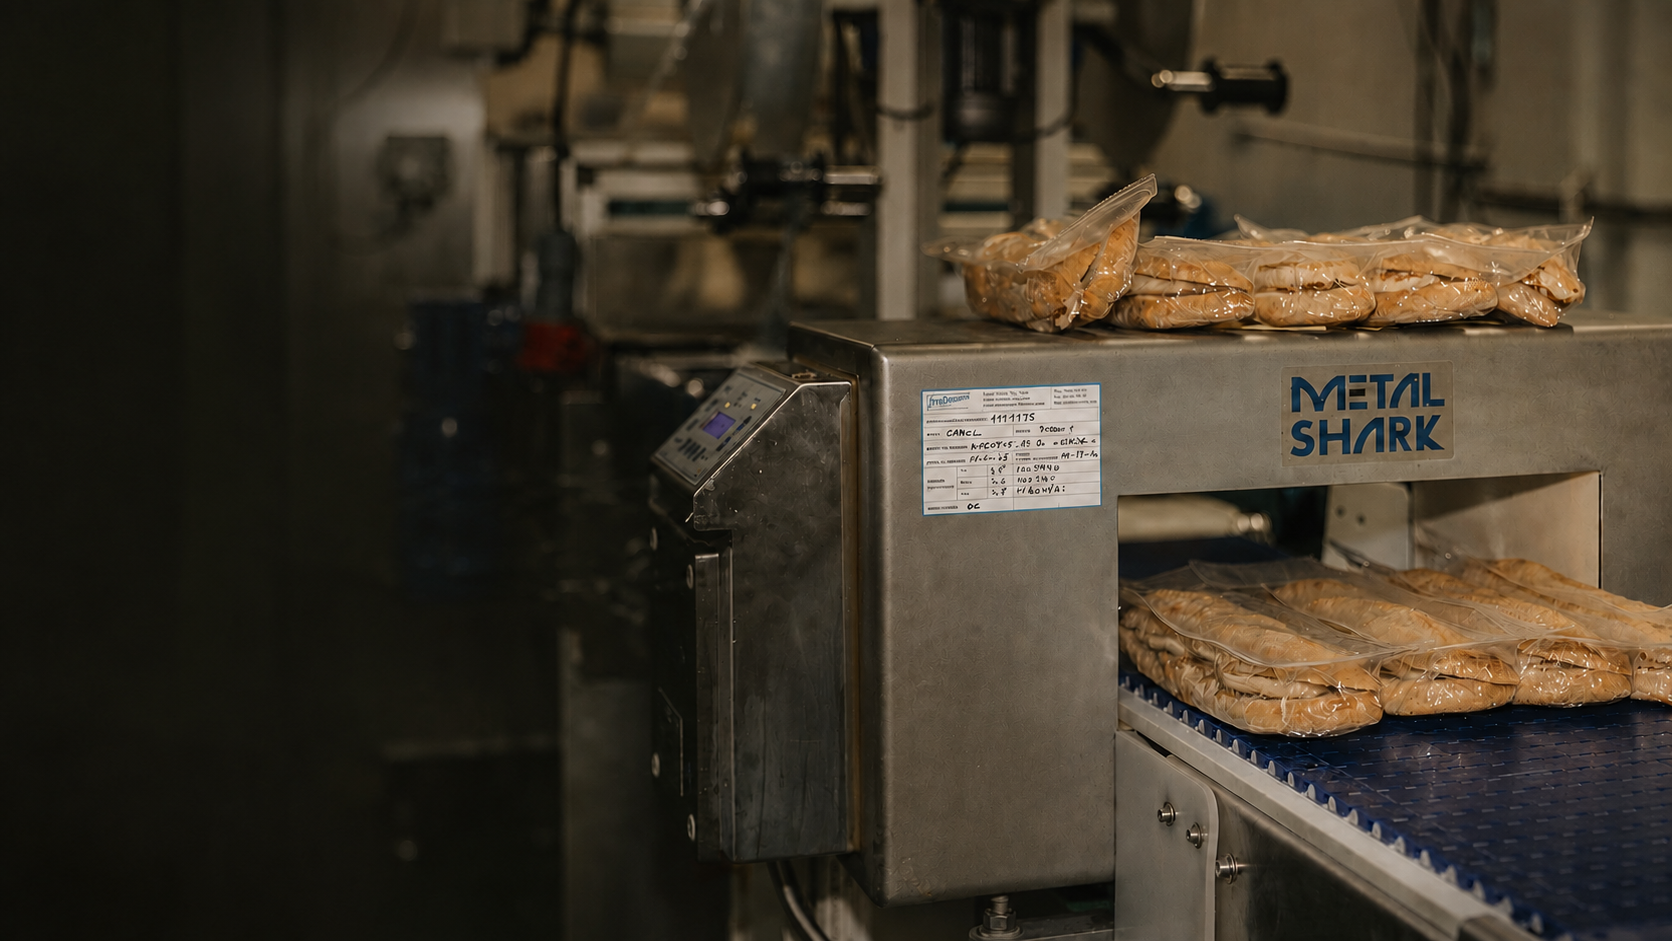
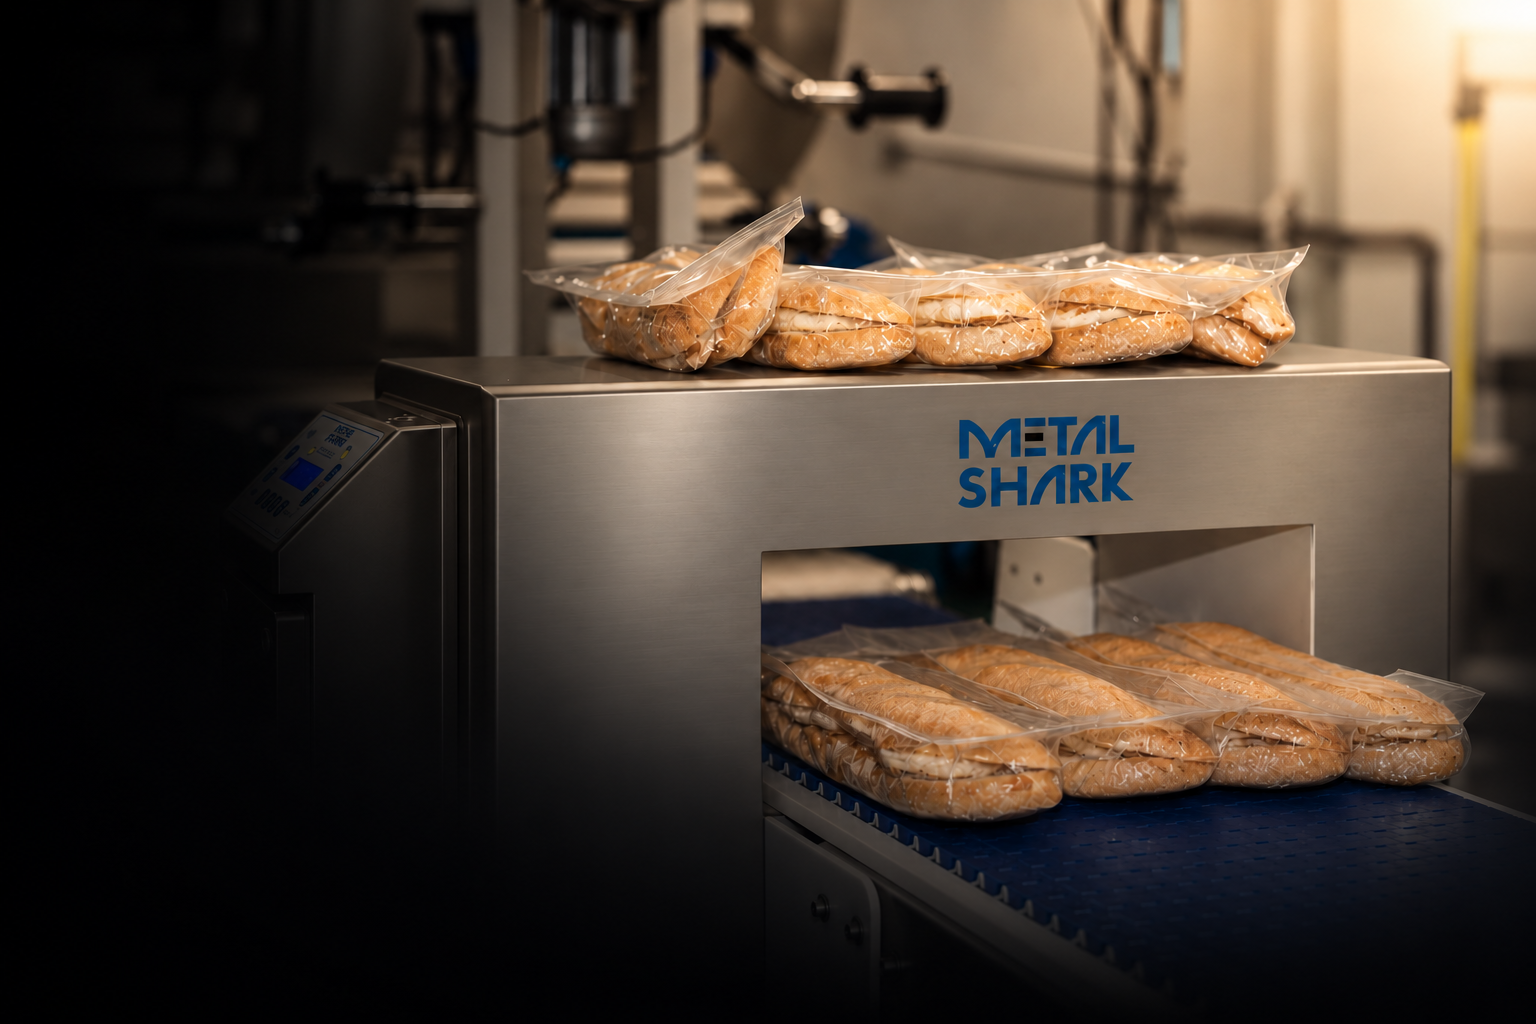
Cambio foto hero productos, alinea cards index, cambio color text shadow hero_text

diff --git a/index.html b/index.html
@@ -42,12 +42,11 @@
     <main>
         <section class="hero">
             <div class="hero_content container">
-                <h1 class="hero_title">Soluciones ready-to-eat para empresas que operan a gran escala</h1>
-                <p class="hero_text">Fabricamos alimentos preparados refrigerados, listos para vender, servir o calentar en distintos canales profesionales.</p>
-                <strong class="hero_tags">+35 años | Certificación IFS | 97% entregas en tiempo y forma | España y Europa</strong>
+                <h1 class="hero_title">Soluciones ready-to-eat para empresas</h1>
                 <div class="hero_actions">
                     <a class="main_btn hero_cta" href="./producto.html">VER PRODUCTOS</a>
                 </div>
+                <strong class="hero_tags">+35 años | Certificación IFS | 97% entregas en tiempo y forma | España y Europa</strong>
             </div>
         </section>
         <section class="two_column container">

diff --git a/style/index.css b/style/index.css
@@ -1,6 +1,6 @@
 .hero {
-    background-image: url("../assets/factory/factory 2.png");
-    background-position: center 70%;
+    background-image: url("../assets/factory/main_hero.png");
+    background-position: center 80%;
 }
 
 .hero_content {
@@ -41,6 +41,14 @@
 
 .card_title {
     font-size: 2rem;
+    line-height: 1.1;
+    min-height: 4.4rem;
+    text-align: center;
+}
+
+.card_title b {
+    display: block;
+    color: var(--color-primary-cta);
 }
 
 .four_cards {

diff --git a/style/clientes.css b/style/clientes.css
@@ -1,5 +1,16 @@
 .hero {
-    background-image: url("../assets/factory/client_hero.jpg");
+    background-image: url("../assets/factory/client_hero.png");
+    background-position: center 70%;
+}
+
+.hero_text {
+    color: var(--color-bg);
+    font-weight: var(--weightMedium);
+    font-size: 2rem;
+
+    text-shadow:
+        0 1px 2px rgba(0, 0, 0, 0.65),
+        0 2px 6px rgba(0, 0, 0, 0.35);
 }
 
 .clients {

diff --git a/producto.html b/producto.html
@@ -44,6 +44,7 @@
         <section class="hero">
             <div class="hero_content container">
                 <h1 class="hero_title">Productos</h1>
+                <p class="hero_text">Fabricamos alimentos preparados refrigerados, listos para vender, servir o calentar en distintos canales profesionales.</p>
             </div>
         </section>
         <section class="two_column container">

diff --git a/style/producto.css b/style/producto.css
@@ -1,5 +1,6 @@
 .hero {
-    background-image: url("../assets/factory/product_hero.jpg");
+    background-image: url("../assets/factory/product_hero.png");
+    background-position: center 80%;
 }
 
 /* ---------- B2B GENERAL CONSIDERATIONS ---------- */

diff --git a/style/components.css b/style/components.css
@@ -23,7 +23,7 @@
 }
 
 .hero_text {
-    color: var(--color-primary-cta);
+    color: var(--color-bg);
     font-weight: var(--weightMedium);
     font-size: 2rem;
 }
